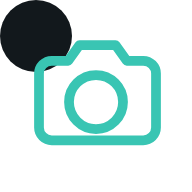
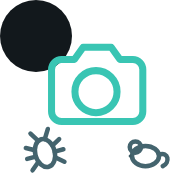
feat: 圖示加入蟑螂與老鼠剪影，點出害蟲防治業務
相機為主體（青綠 #39c5b3），蟑螂與老鼠剪影放在下方兩角，用低對比的
#44646e，能表達業務又不與主體搶視覺。

兩個實測後才定案的取捨：
- 害蟲刻意不與相機重疊。第一版把它們當背景疊在相機後面，結果被相機
  蓋掉大半，縮小後只剩零碎邊角像雜訊，完全看不出是生物
- 害蟲線條加粗到 12px。主畫面實際顯示只有約 60px，細線會糊成一團；
  以 120px 縮圖驗證過三個元素都仍分辨得出

icon.svg 原始檔同步更新，並在註解寫明轉檔指令與 maskable 版的差異，
日後要改不必重畫。

版本號遞增至 v15（圖示更換，SW 快取需失效）。

Changed region(s): [[0.125, 0.1875, 0.9062, 0.9062]]

diff --git a/public/js/app.js b/public/js/app.js
@@ -11,7 +11,7 @@ App.app = (function () {
   // ⚠ 改版時要跟 sw.js 的 CACHE 版本號一起遞增，兩者必須一致。
   // 顯示在標題右側，讓現場回報問題時能直接確認手機上跑的是哪一版——
   // PWA 會快取前端資源，「我已經部署了」不等於「使用者拿到了」。
-  var VERSION = 'v14';
+  var VERSION = 'v15';
 
   var SETTINGS_KEY = 'ss_settings';
   var settings = { maxEdge: 1600, quality: 0.8 };

diff --git a/public/sw.js b/public/sw.js
@@ -10,7 +10,7 @@
 
 // ⚠ 這個版本號同時是畫面右上角顯示的版本（app.js 從 SW 取得後寫進標題）。
 // 改版時務必遞增，否則使用者會卡在舊版前端，而且看不出手機上跑的是哪一版。
-const CACHE = 'snapsync-shell-v14';
+const CACHE = 'snapsync-shell-v15';
 const ASSETS = [
   './',
   './index.html',
